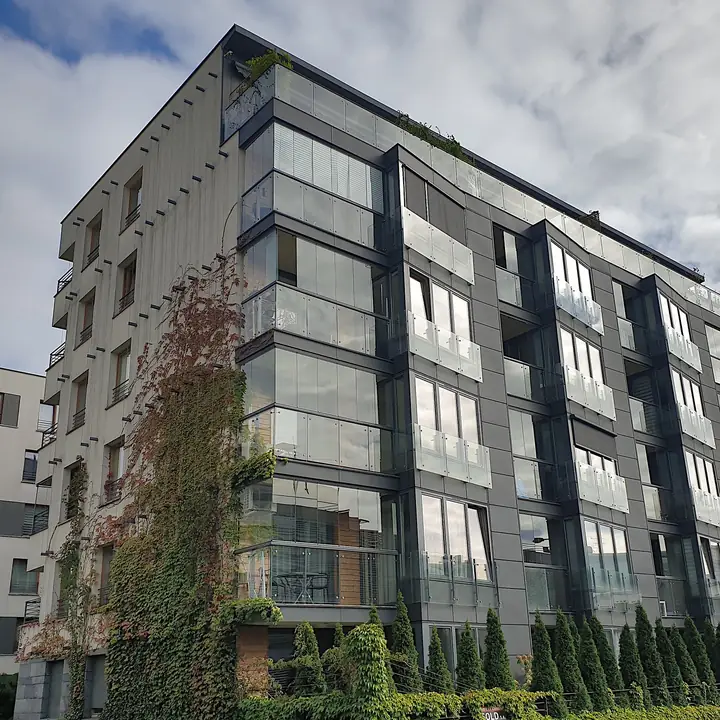
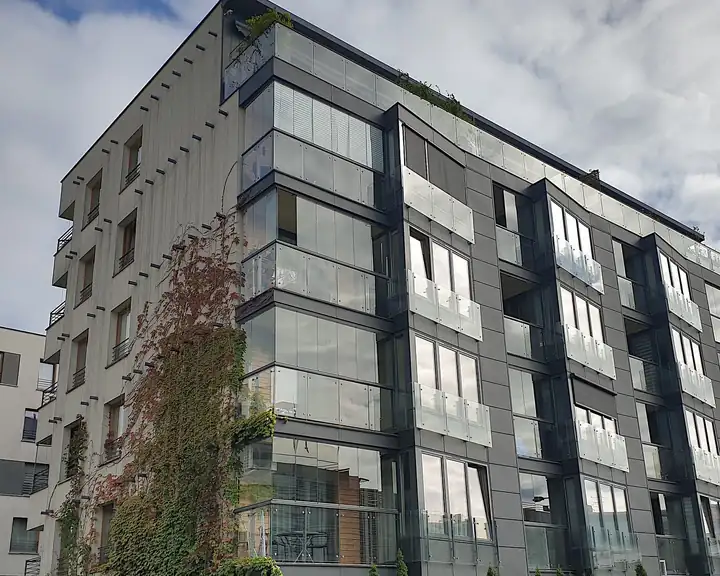
Lzejsze zdjecie pierwszego ekranu na telefon

diff --git a/index.html b/index.html
@@ -8,7 +8,7 @@
 <meta name="description" content="Property Center: zarządzanie i administrowanie nieruchomościami w Krakowie. Wspólnoty mieszkaniowe i budynki komercyjne, obsługa techniczna 24/7, księgowa i prawna. Tel. 660 281 681.">
 <meta name="theme-color" content="#1B2B2E">
 <link rel="icon" href="img/favicon.svg" type="image/svg+xml">
-<link rel="preload" as="image" href="img/hero-m-720.webp" imagesrcset="img/hero-m-480.webp 480w, img/hero-m-720.webp 720w, img/hero-m-960.webp 960w" imagesizes="100vw" media="(max-width:760px)" fetchpriority="high">
+<link rel="preload" as="image" href="img/hero-m-720.webp" imagesrcset="img/hero-m-480.webp 480w, img/hero-m-720.webp 720w, img/hero-m-860.webp 860w" imagesizes="100vw" media="(max-width:760px)" fetchpriority="high">
 <link rel="preload" as="image" href="img/hero-1600.webp" imagesrcset="img/hero-1024.webp 1024w, img/hero-1600.webp 1600w, img/hero-2000.webp 2000w" imagesizes="100vw" media="(min-width:761px)" fetchpriority="high">
 <link rel="preload" as="font" type="font/woff2" href="fonts/archivo-rdzen.woff2" crossorigin>
 <link rel="preload" as="font" type="font/woff2" href="fonts/ss3-latin.woff2" crossorigin>
@@ -296,7 +296,7 @@ form .btn{margin-top:22px}
 <main id="tresc">
 <section class="hero" id="start">
   <picture class="ph">
-    <source media="(max-width:760px)" srcset="img/hero-m-480.webp 480w, img/hero-m-720.webp 720w, img/hero-m-960.webp 960w" sizes="100vw">
+    <source media="(max-width:760px)" srcset="img/hero-m-480.webp 480w, img/hero-m-720.webp 720w, img/hero-m-860.webp 860w" sizes="100vw">
     <img src="img/hero-1600.webp" srcset="img/hero-1024.webp 1024w, img/hero-1600.webp 1600w, img/hero-2000.webp 2000w" sizes="100vw" width="2000" height="1333" fetchpriority="high" decoding="async" alt="Nowoczesny budynek mieszkalny w Krakowie">
   </picture>
   <div class="hero-in wrap">
